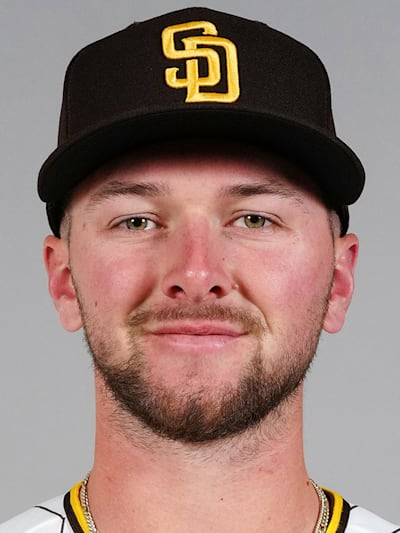
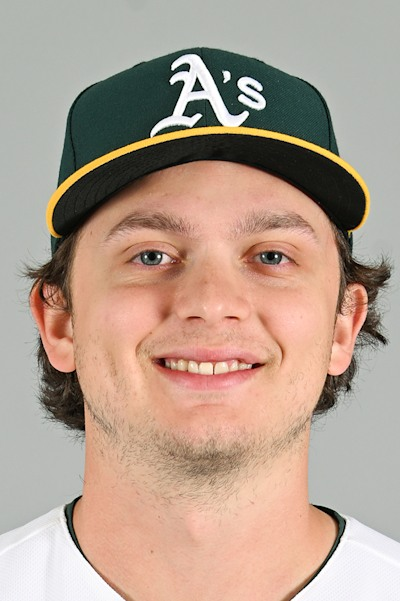
Fix About favorite-player photos for Kurtz and Crow-Armstrong.
Replace incorrect headshots with official MLB images and bump cache-bust query params.

diff --git a/about/index.html b/about/index.html
@@ -129,7 +129,7 @@
                 </div>
                 <div class="player-item">
                     <div class="player-item__photo">
-                        <img src="../images/players/pete-crow-armstrong.jpg" alt="Pete Crow-Armstrong" width="120" height="160" loading="lazy" decoding="async">
+                        <img src="../images/players/pete-crow-armstrong.jpg?v=2" alt="Pete Crow-Armstrong in a Chicago Cubs uniform" width="120" height="160" loading="lazy" decoding="async">
                     </div>
                     <span class="player-name">Pete Crow-Armstrong</span>
                 </div>
@@ -141,7 +141,7 @@
                 </div>
                 <div class="player-item">
                     <div class="player-item__photo">
-                        <img src="../images/players/nick-kurtz.jpg" alt="Nick Kurtz" width="120" height="160" loading="lazy" decoding="async">
+                        <img src="../images/players/nick-kurtz.jpg?v=2" alt="Nick Kurtz in an Oakland Athletics uniform" width="120" height="160" loading="lazy" decoding="async">
                     </div>
                     <span class="player-name">Nick Kurtz</span>
                 </div>
